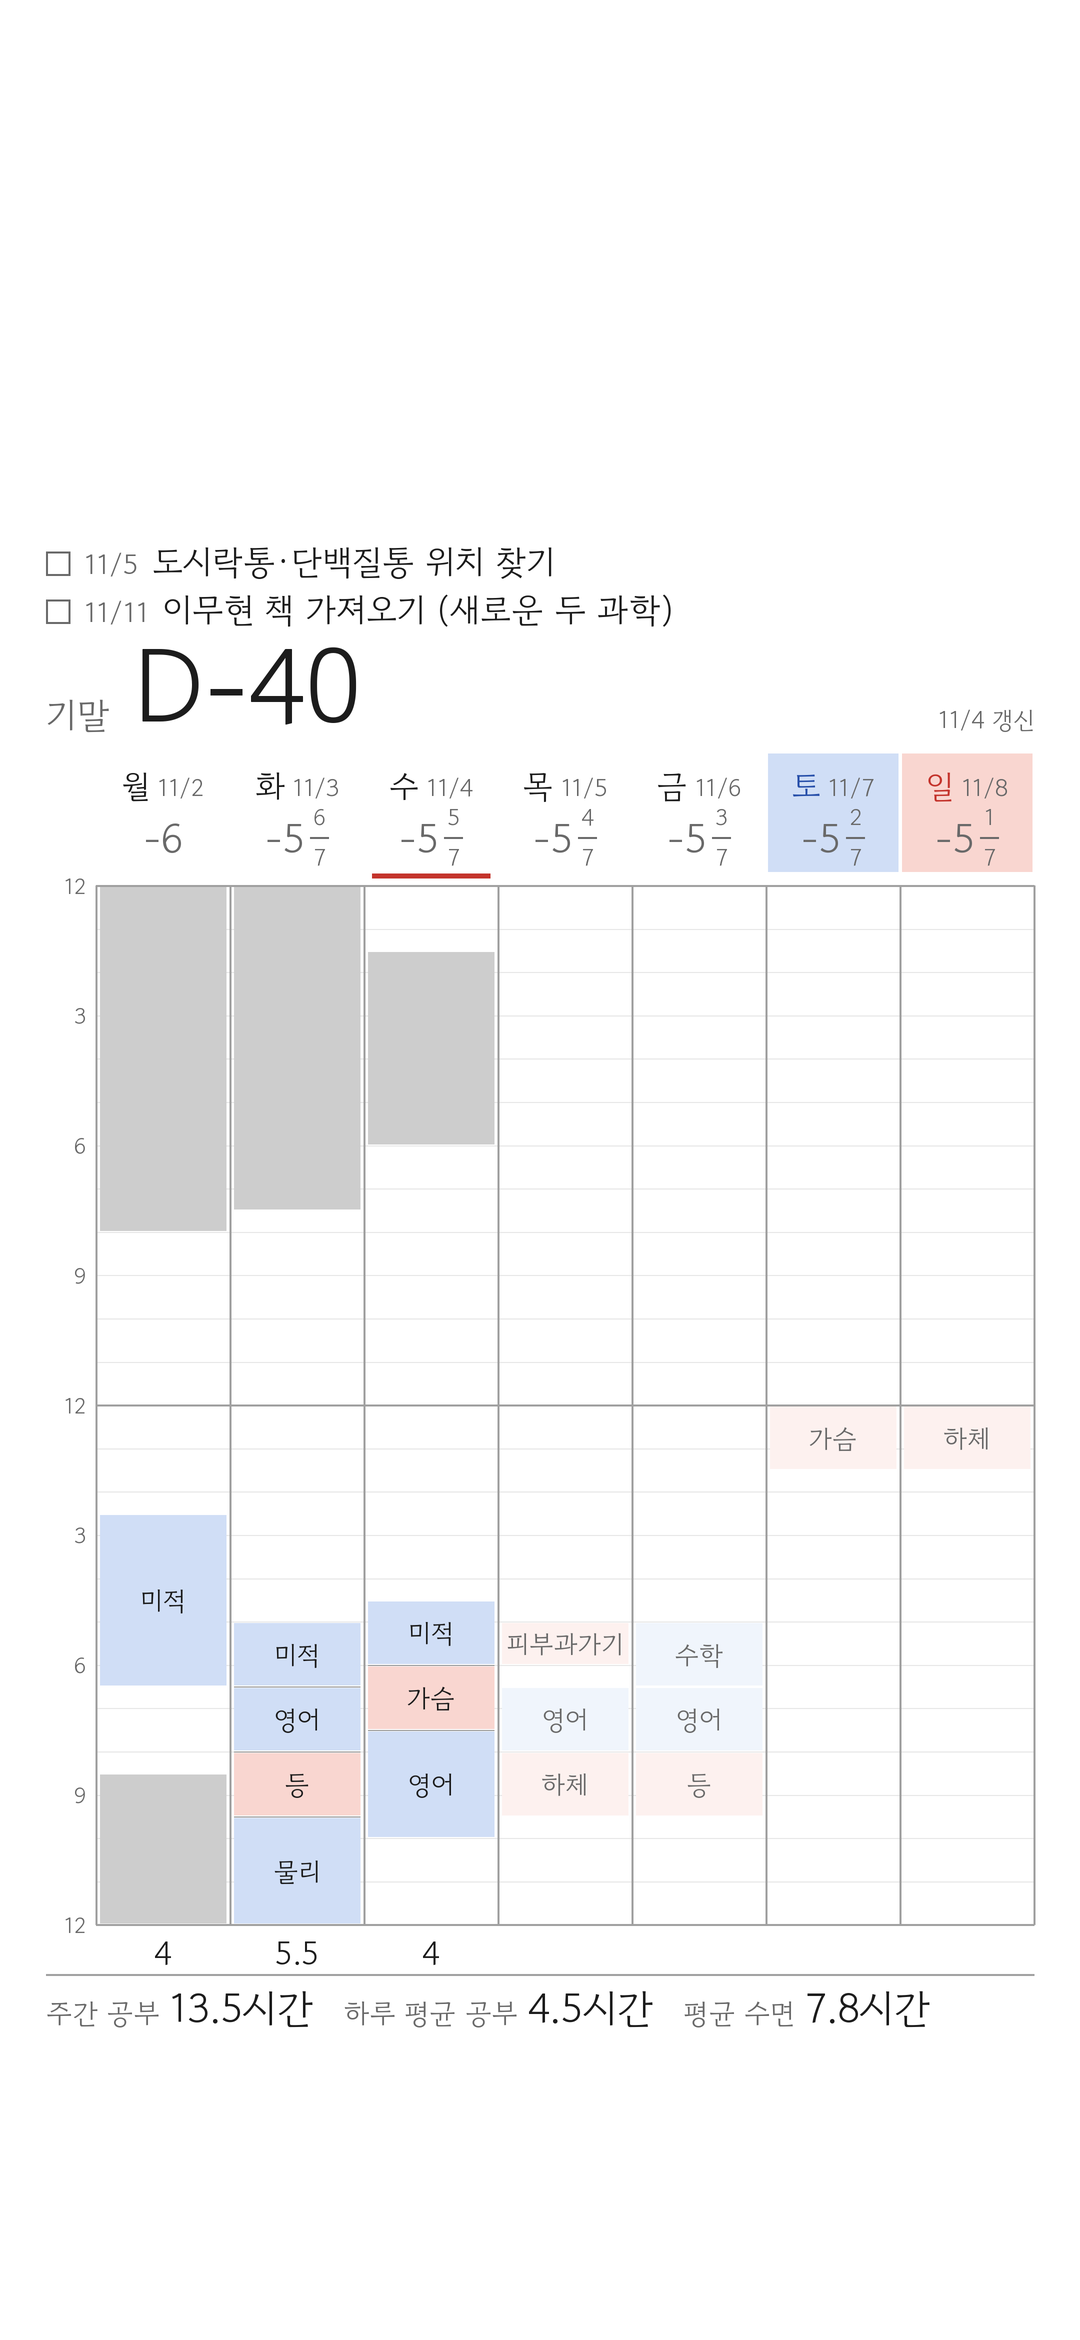
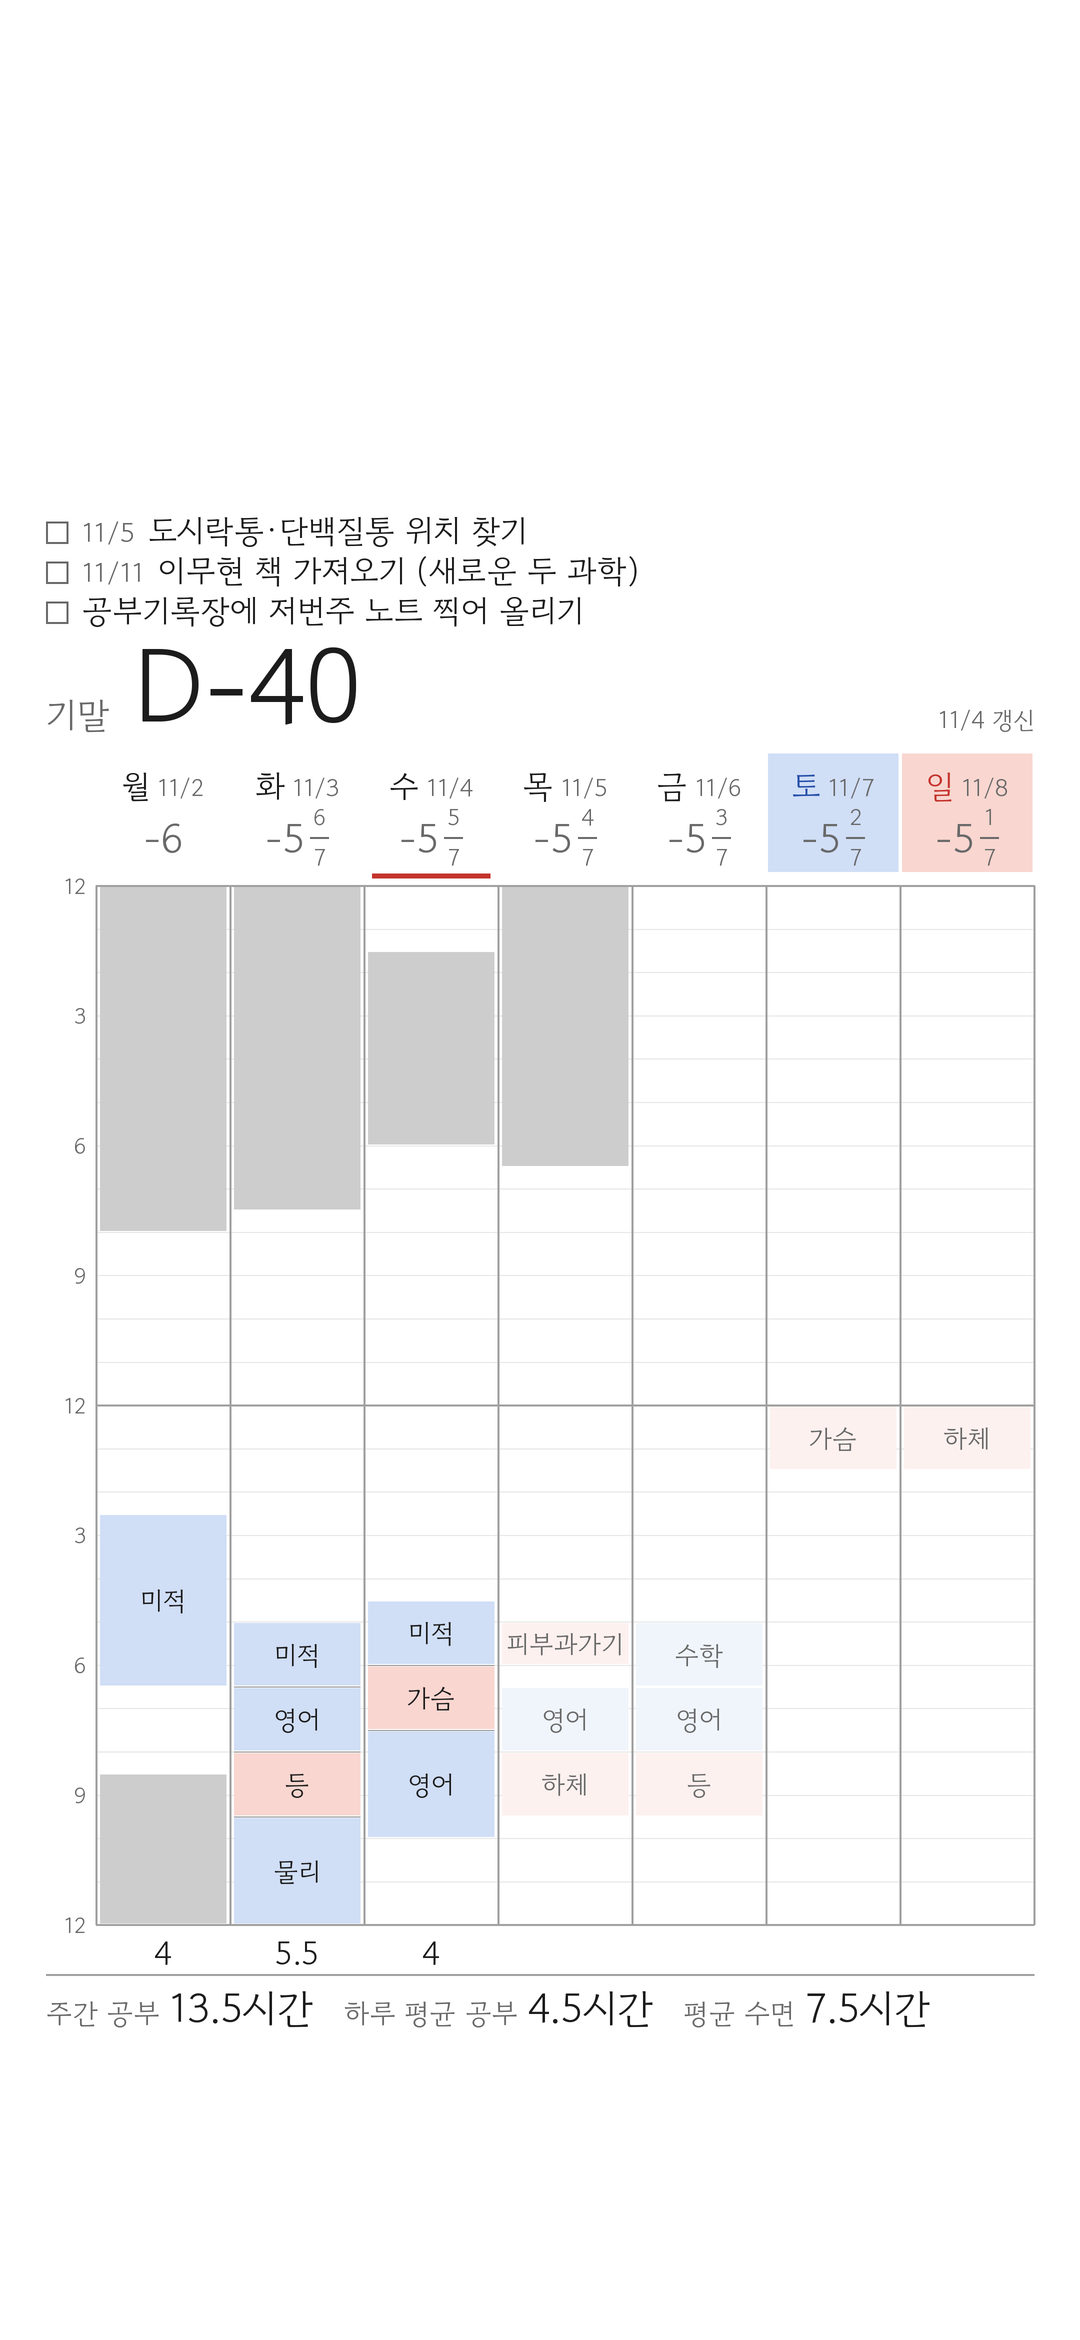
Allow three to-do lines, add undated note task
Claude-Session: https://claude.ai/code/session_016sgH3W1t4jFFoNxyrfYock

Changed region(s): [[0.0306, 0.2184, 0.6111, 0.2808], [0.4583, 0.3744, 0.5806, 0.4991], [0.7639, 0.8423, 0.7944, 0.8735]]

diff --git a/make.py b/make.py
@@ -112,8 +112,8 @@ def todo_list(g, data, today, L, R, y, u):
     items = [t for t in data.get("todos", []) if not t["d"] or t["d"] >= today.isoformat()]
     if not items:
         return
-    more, items = len(items) - 2, items[:2]
-    fd, gap, box = font(SANS, int(28 * u)), 48 * u, 24 * u
+    more, items = len(items) - 3, items[:3]
+    fd, gap, box = font(SANS, int(27 * u)), 40 * u, 22 * u
     first = y - 8 * u - gap * (len(items) - 1)
     for i, t in enumerate(items):
         b = first + gap * i
@@ -124,7 +124,7 @@ def todo_list(g, data, today, L, R, y, u):
             ds = f"{d.month}/{d.day}"
             g.text((x, b), ds, font=fd, fill=INK_SOFT, anchor="ls")
             x += text_w(g, ds, fd) + 14 * u
-        size = 34
+        size = 32
         while size > 20 and x + text_w(g, t["t"], font(SANS, int(size * u))) > R - 60 * u:
             size -= 2
         g.text((x, b), t["t"], font=font(SANS, int(size * u)), fill=INK, anchor="ls")
